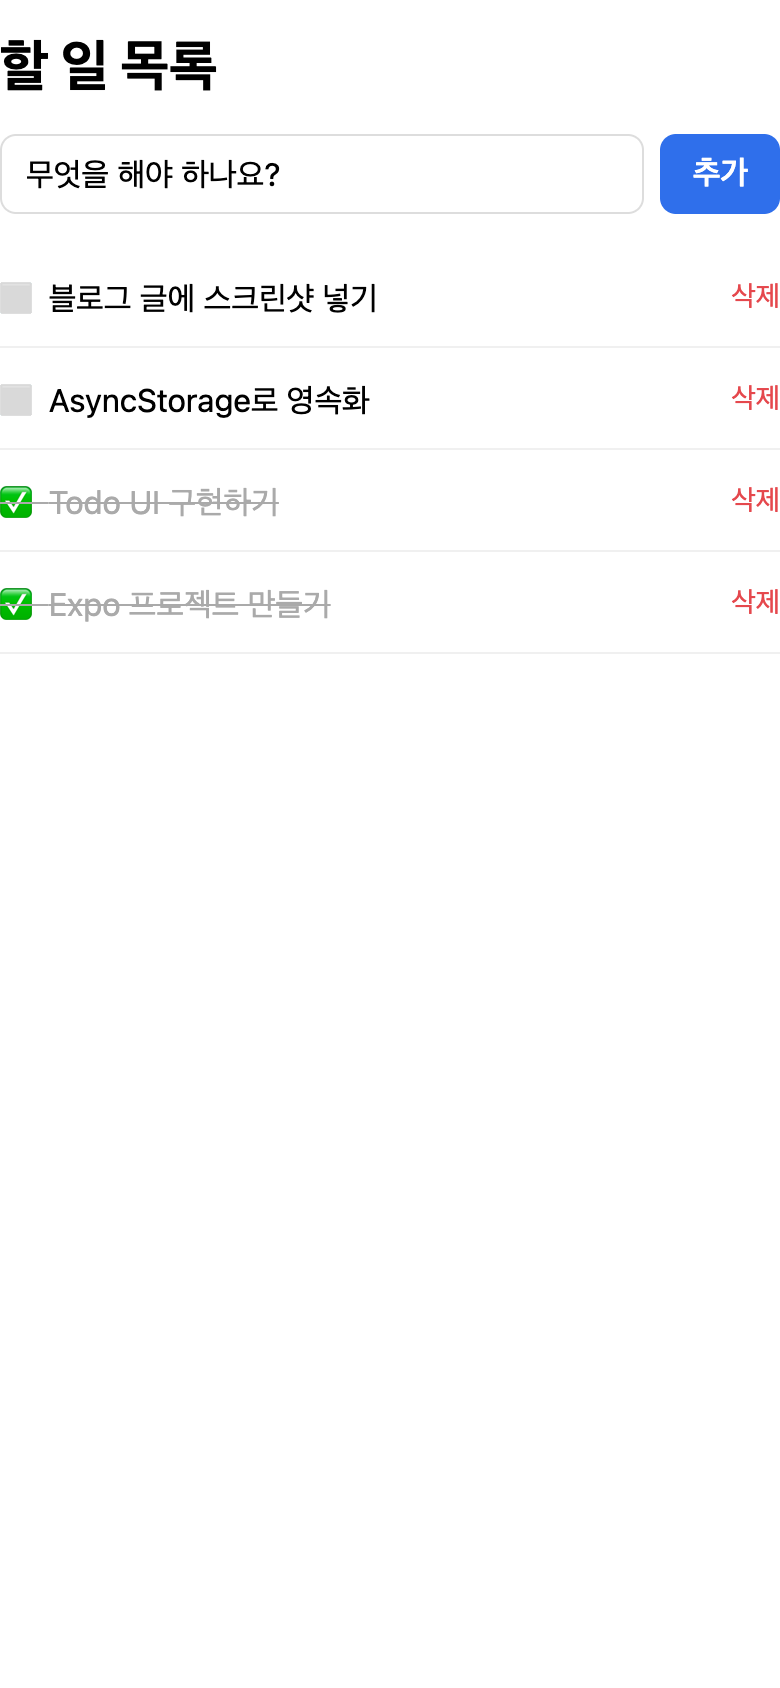
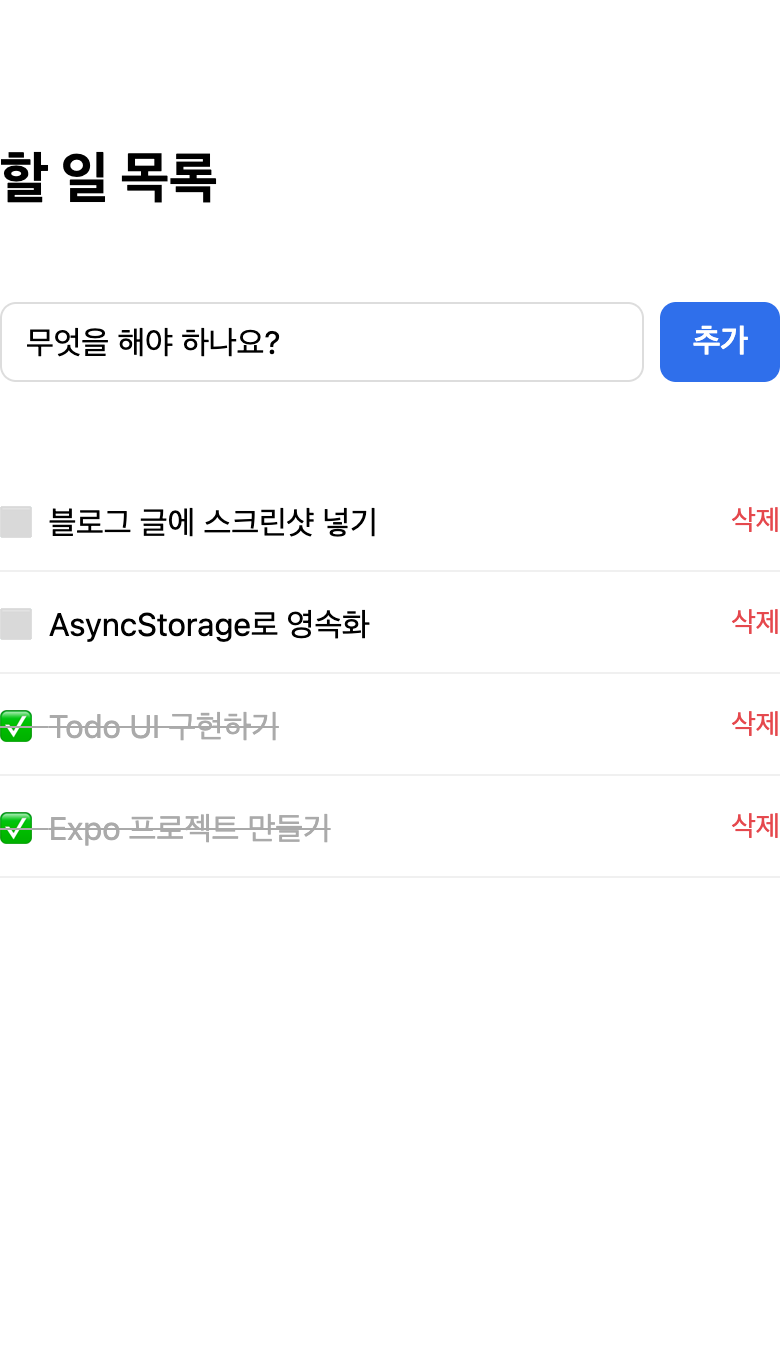
docs: Expo 입문 글 - QR 일러스트 추가 및 가독성 개선
* 섹션 1 (개발 환경 준비)
  - 기존 ASCII 흉내 코드블록을 QR 일러스트 이미지 + 단축키 메뉴 코드블록 + 설명 문장으로 분리
  - QR 일러스트 이미지(expo-start-qr.png) 신규 추가 (exp://192.168.0.10:8081을 인코딩한 예시용 — 만료/오용 우려 없음)
* todo-list-with-items-web.png 교체: 상단 패딩 + 컴팩트 뷰포트(390x680) 재캡처로 잘린 느낌 해소

diff --git a/docs/start/expo로-시작하는-react-native-앱-개발/index.md b/docs/start/expo로-시작하는-react-native-앱-개발/index.md
@@ -87,15 +87,11 @@ npx expo start
 
 터미널에는 다음과 비슷한 QR 코드와 키 단축키 메뉴가 표시됩니다. 이 화면이 보이면 개발 서버가 정상적으로 떴다는 뜻입니다.
 
+![`npx expo start` 실행 시 터미널에 표시되는 QR 코드 (예시 이미지 — 실제로는 본인 LAN 주소가 인코딩됩니다)](expo-start-qr.png)
+
+QR 아래에는 다음과 같은 안내와 단축키 메뉴가 함께 표시됩니다.
+
 ```text
-Starting project at /Users/you/.../expo-todo-app
-Starting Metro Bundler
-
- █ ▄▄▄▄▄ █▀█ █▄▀▄▀ █▄▀▄▄▀ █ ▄▄▄▄▄ █
- █ █   █ █▀▀▀█ ▀▄▀ ▀▄▄ ▄ ▀▀ █ █   █ █
- ...
- (QR 코드)
-
 › Metro waiting on exp://192.168.0.10:8081
 › Scan the QR code above with Expo Go (Android) or the Camera app (iOS)
 
@@ -108,6 +104,8 @@ Starting Metro Bundler
 › Press m │ toggle menu
 › Press ? │ show all commands
 ```
+
+`exp://...` 주소는 Metro 번들러가 떠 있는 위치이며, 폰의 [Expo Go](https://expo.dev/go) 앱이 이 주소로 접속해 앱 번들을 받아 실행합니다. iOS는 기본 카메라 앱으로, Android는 Expo Go 안의 스캐너로 위 QR을 찍으면 곧바로 앱이 폰에 뜹니다. 시뮬레이터/에뮬레이터/웹은 각각 `i`/`a`/`w` 키를 누르면 됩니다.
 
 ## iOS 시뮬레이터가 없다면?
 
